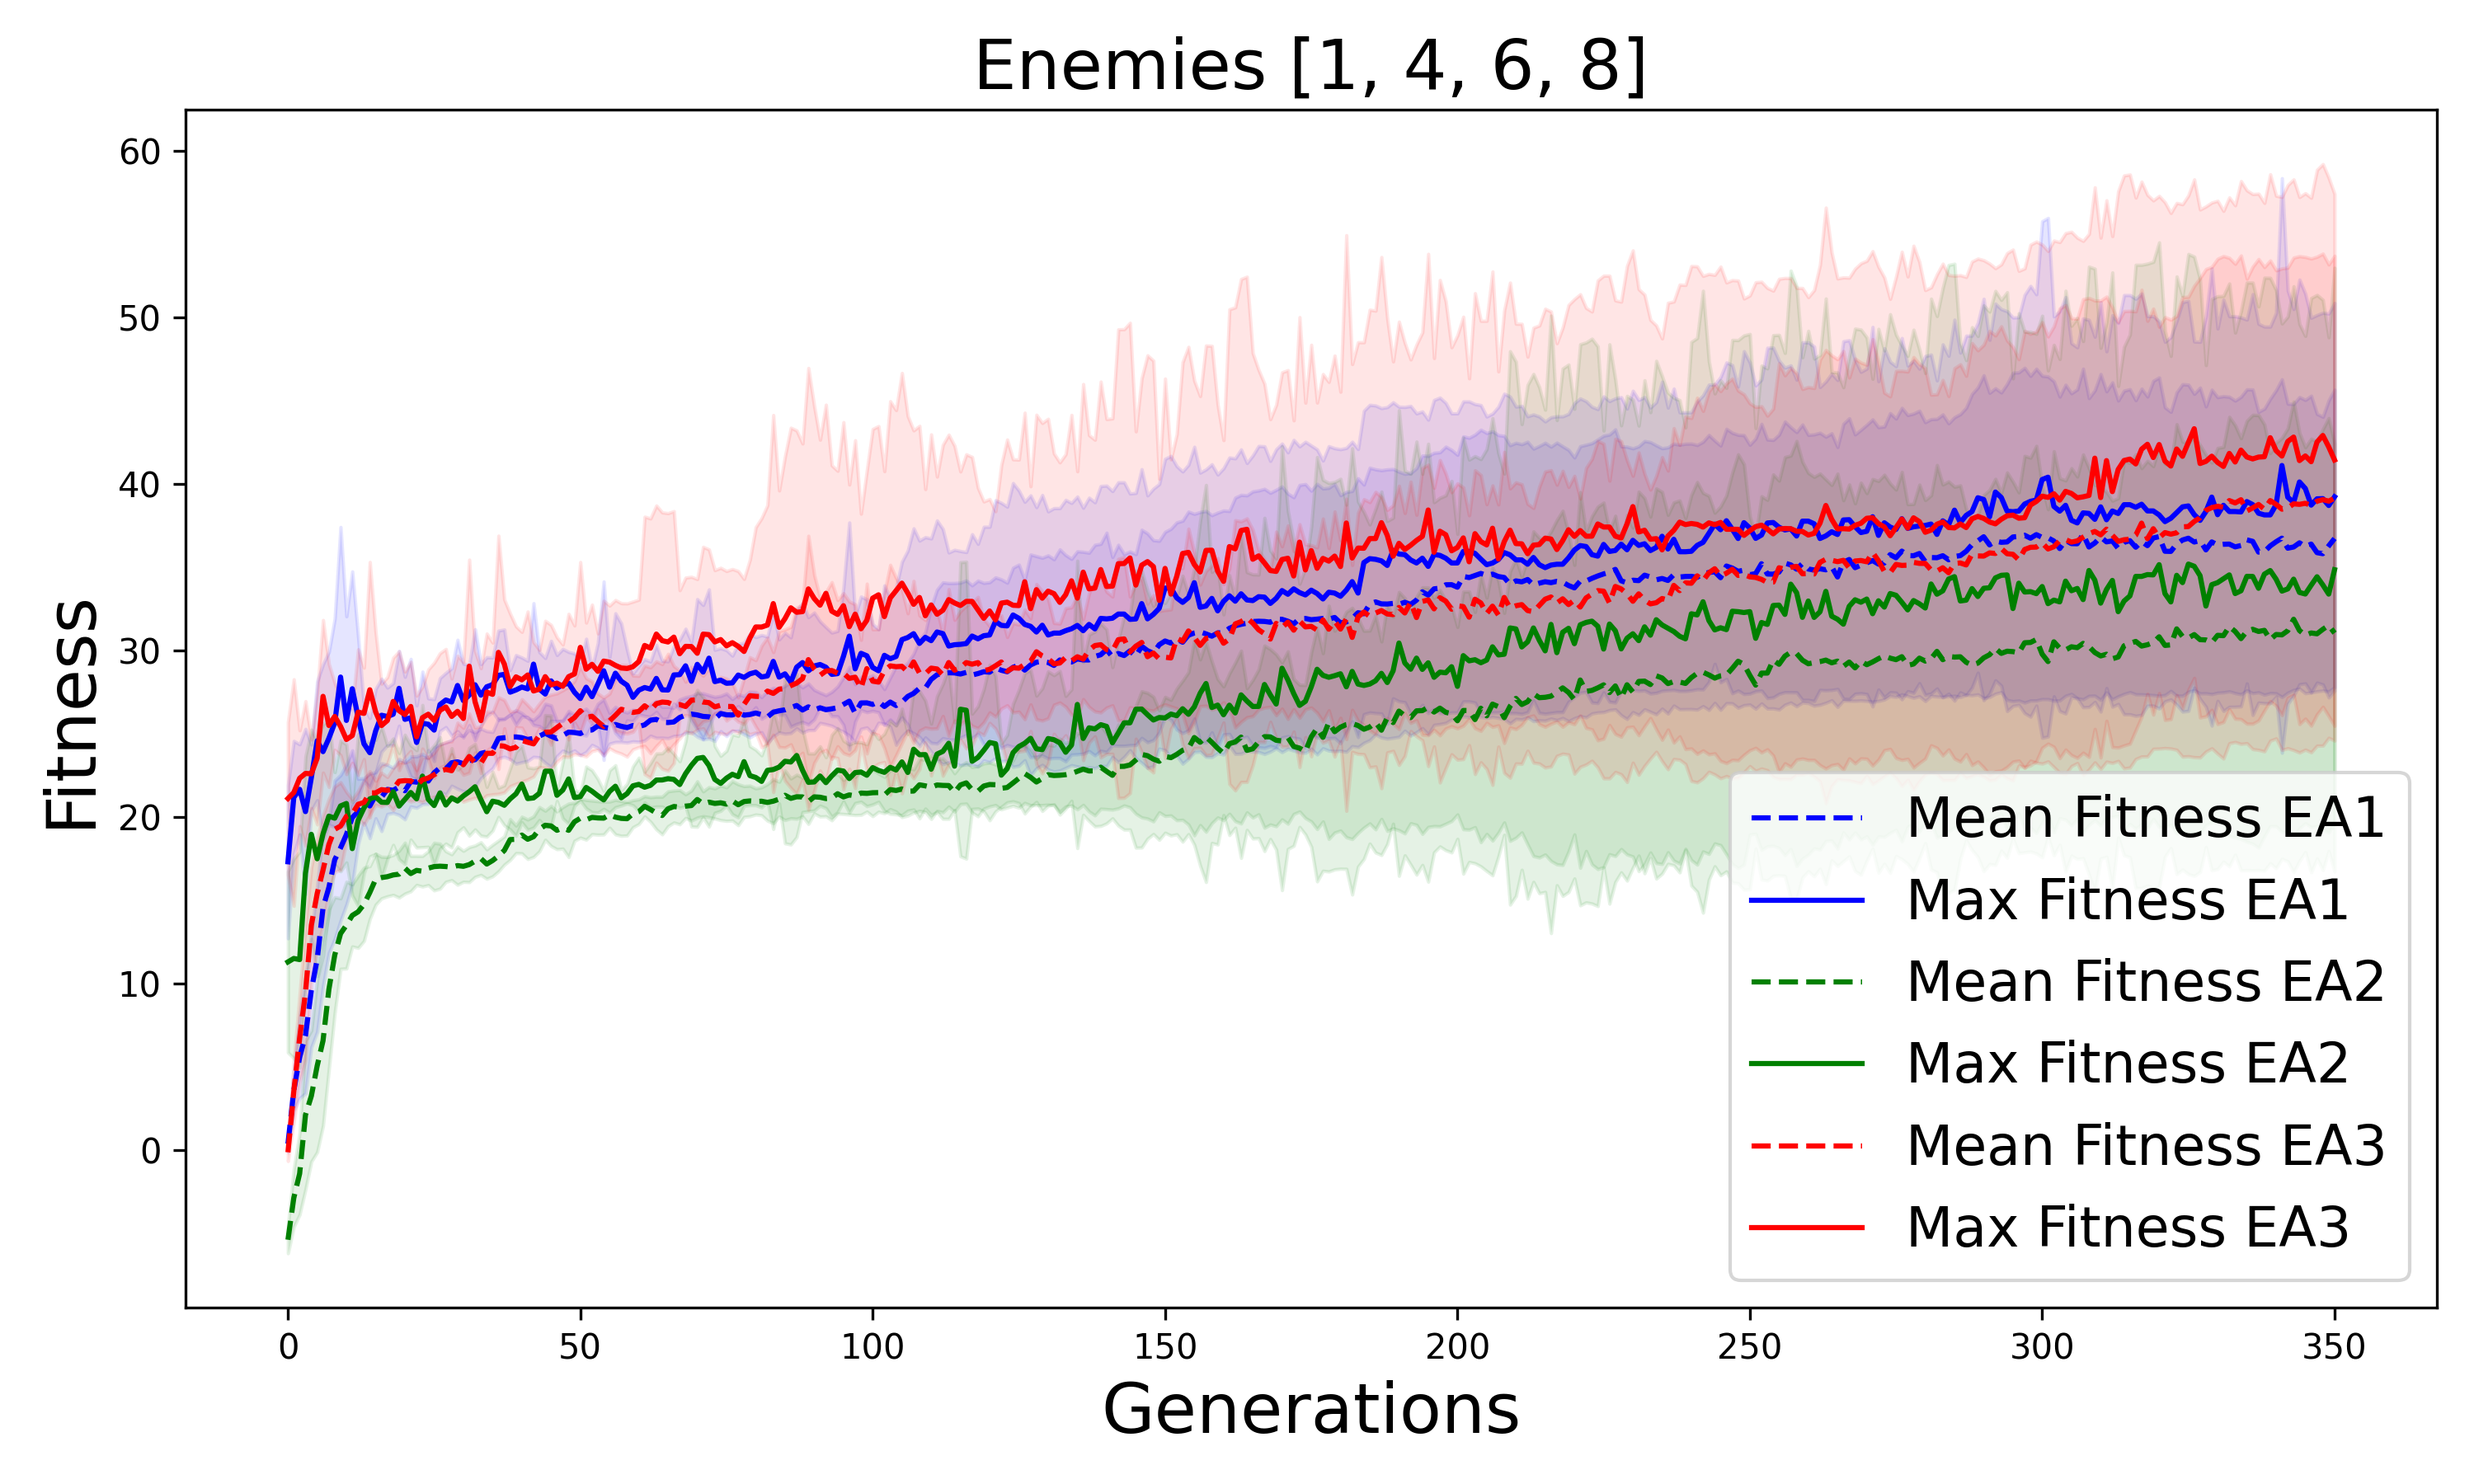
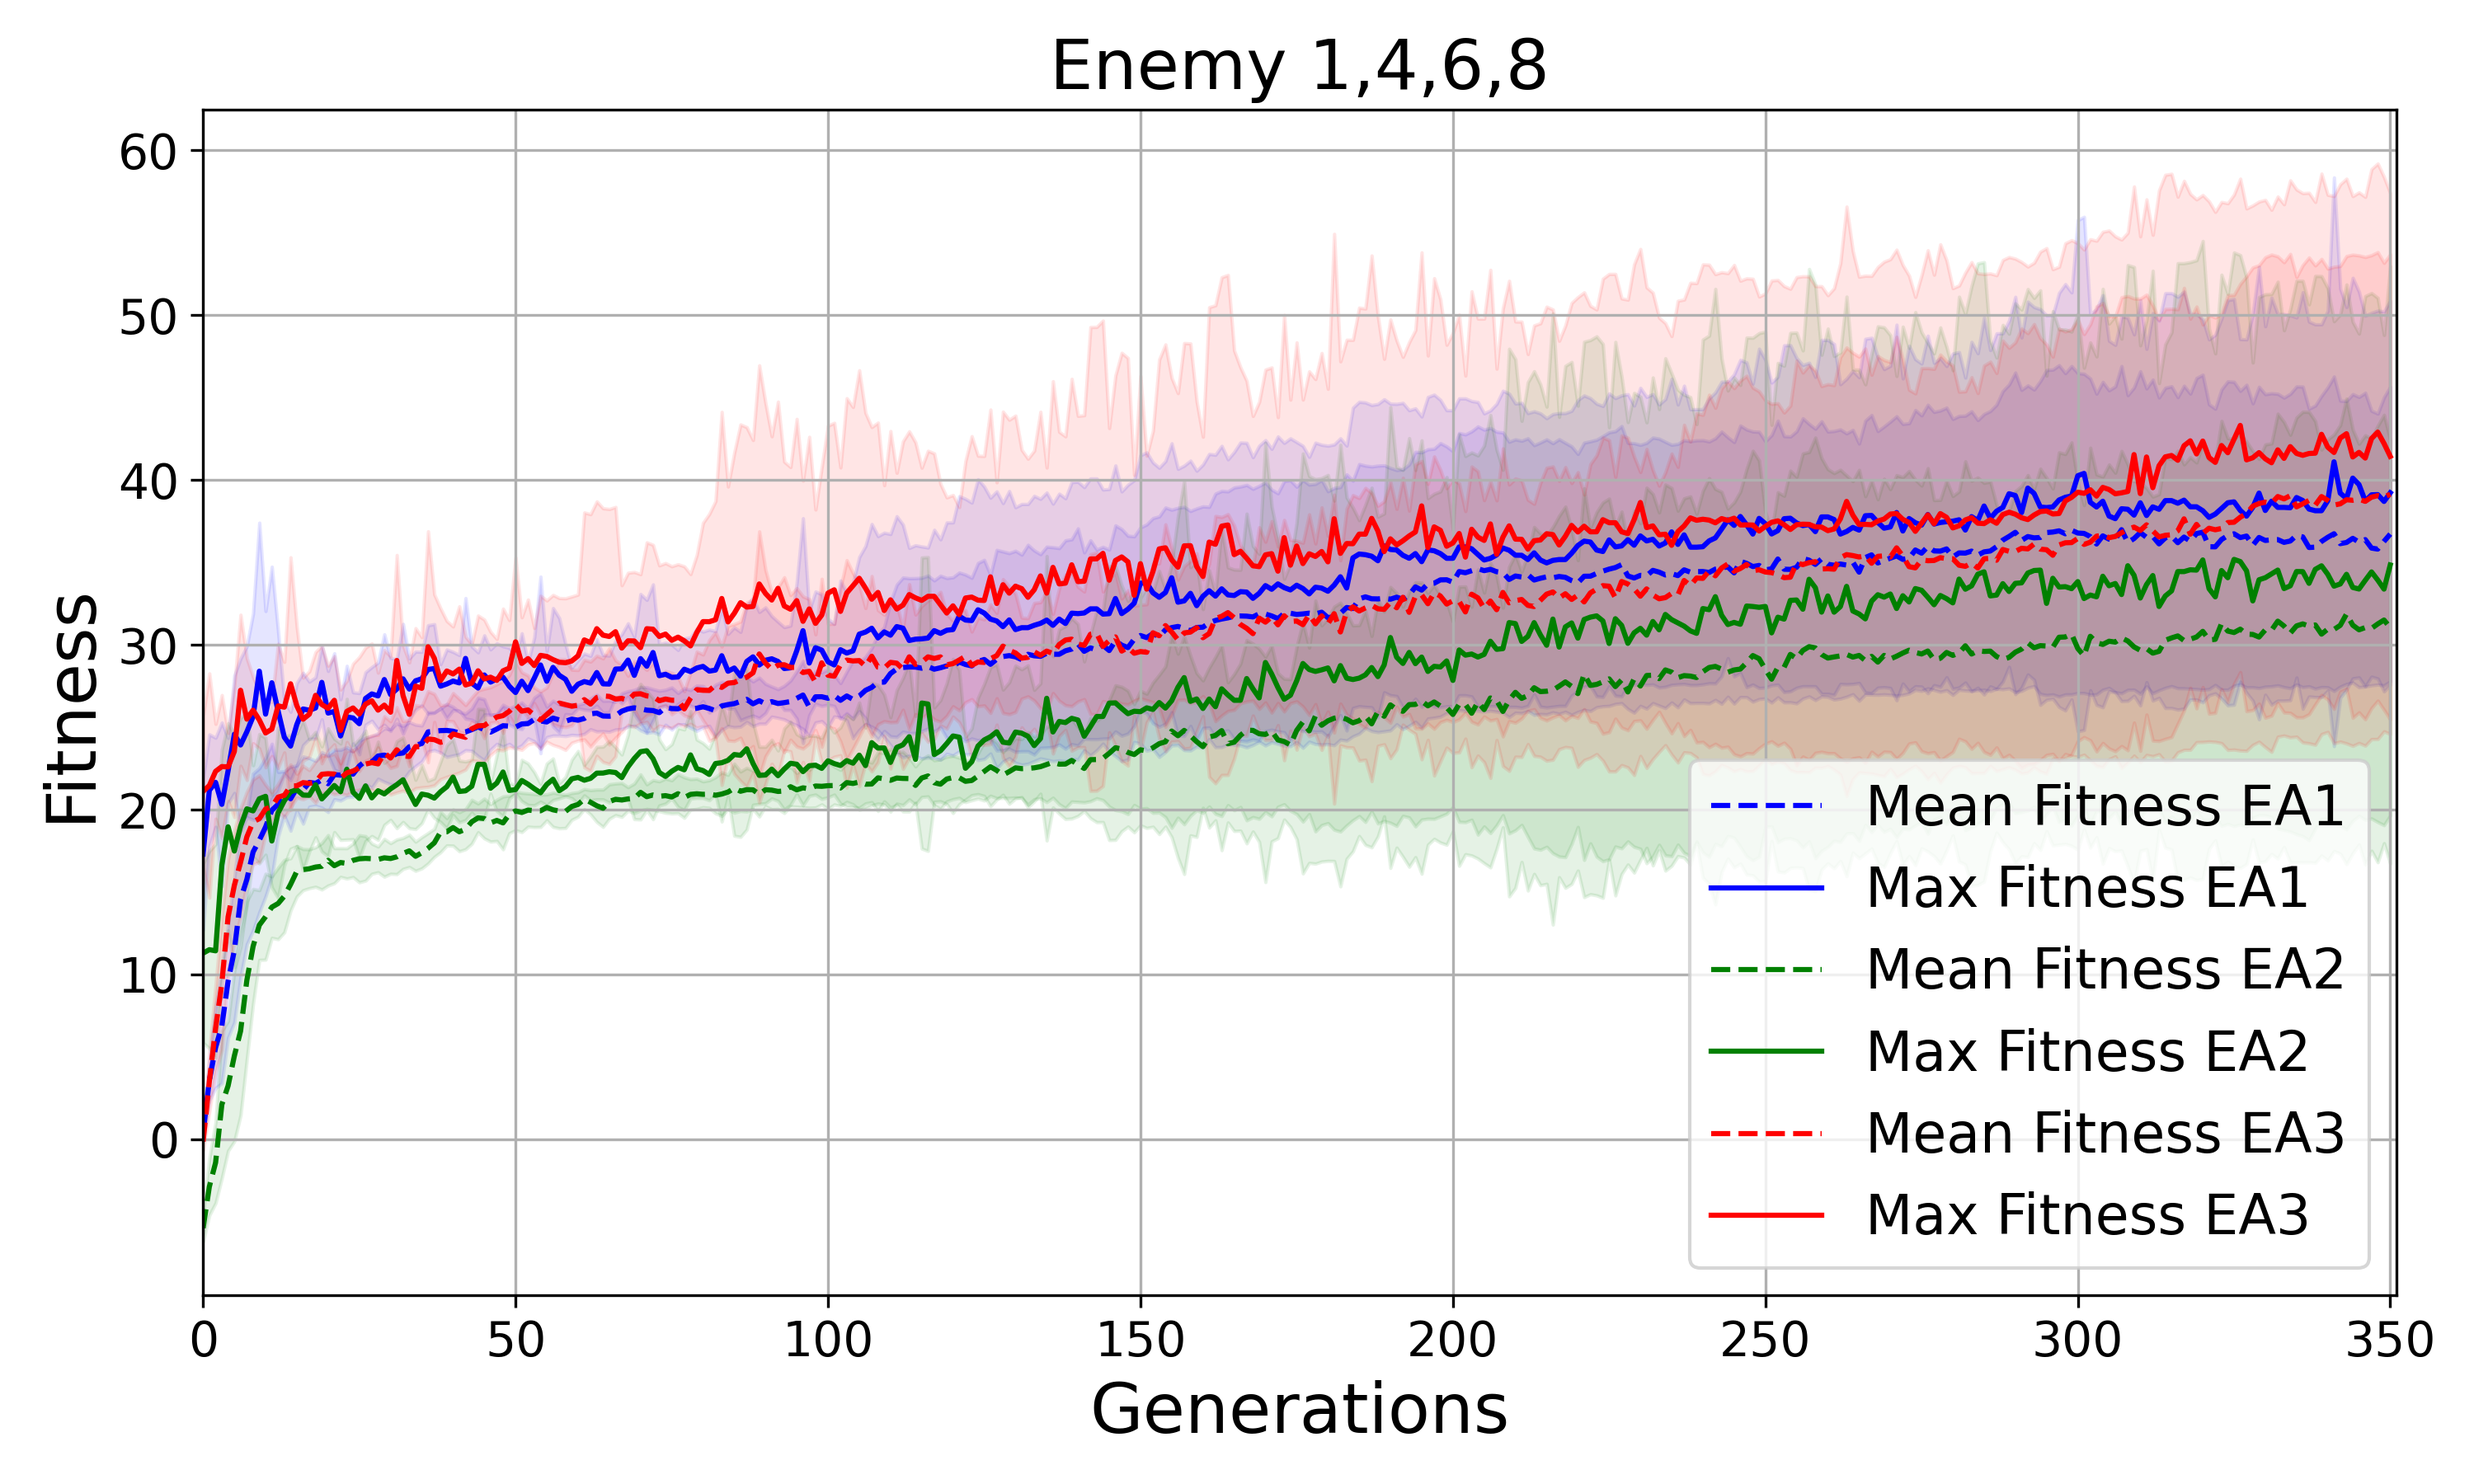
update lineplot

Changed region(s): [[0.0, 0.0622, 0.992, 0.9644], [0.372, 0.0311, 0.682, 0.0622], [0.62, 0.5911, 0.651, 0.6222]]

diff --git a/stats/line_plot.py b/stats/line_plot.py
@@ -39,9 +39,9 @@ def plot_combined_results(ea_data, enemy_group):
     generations = list(range(0, len(ea_data['EA1']['avg_mean'])))
 
     if enemy_group == 0:
-        enemies = [2,3,4,5,6,8]
+        enemies = '2,3,4,5,6,8'
     elif enemy_group == 1:
-        enemies = [1,4,6,8]
+        enemies = '1,4,6,8'
 
     plt.figure(figsize=(10, 6))
     for ea_type, data in ea_data.items():
@@ -53,11 +53,15 @@ def plot_combined_results(ea_data, enemy_group):
                          np.add(data['avg_max'], data['std_max']), color=color, alpha=0.1)
         plt.plot(generations, data['avg_max'], label=f'Max Fitness {ea_type}', color=color)
 
-    plt.title(f'Enemies {enemies}', fontsize=20)
+    plt.title(f'Enemy {enemies}', fontsize=20)
     plt.xlabel('Generations', fontsize=20)
     plt.ylabel('Fitness', fontsize=20)
+    ax = plt.gca() 
+    ax.tick_params(axis='both', which='major', labelsize=14)
+    plt.xlim(0, 351)
     plt.legend(fontsize=16)
     plt.tight_layout()
+    plt.grid()
     plt.savefig(save_path, format='png', dpi=300) 
     plt.close()
 
